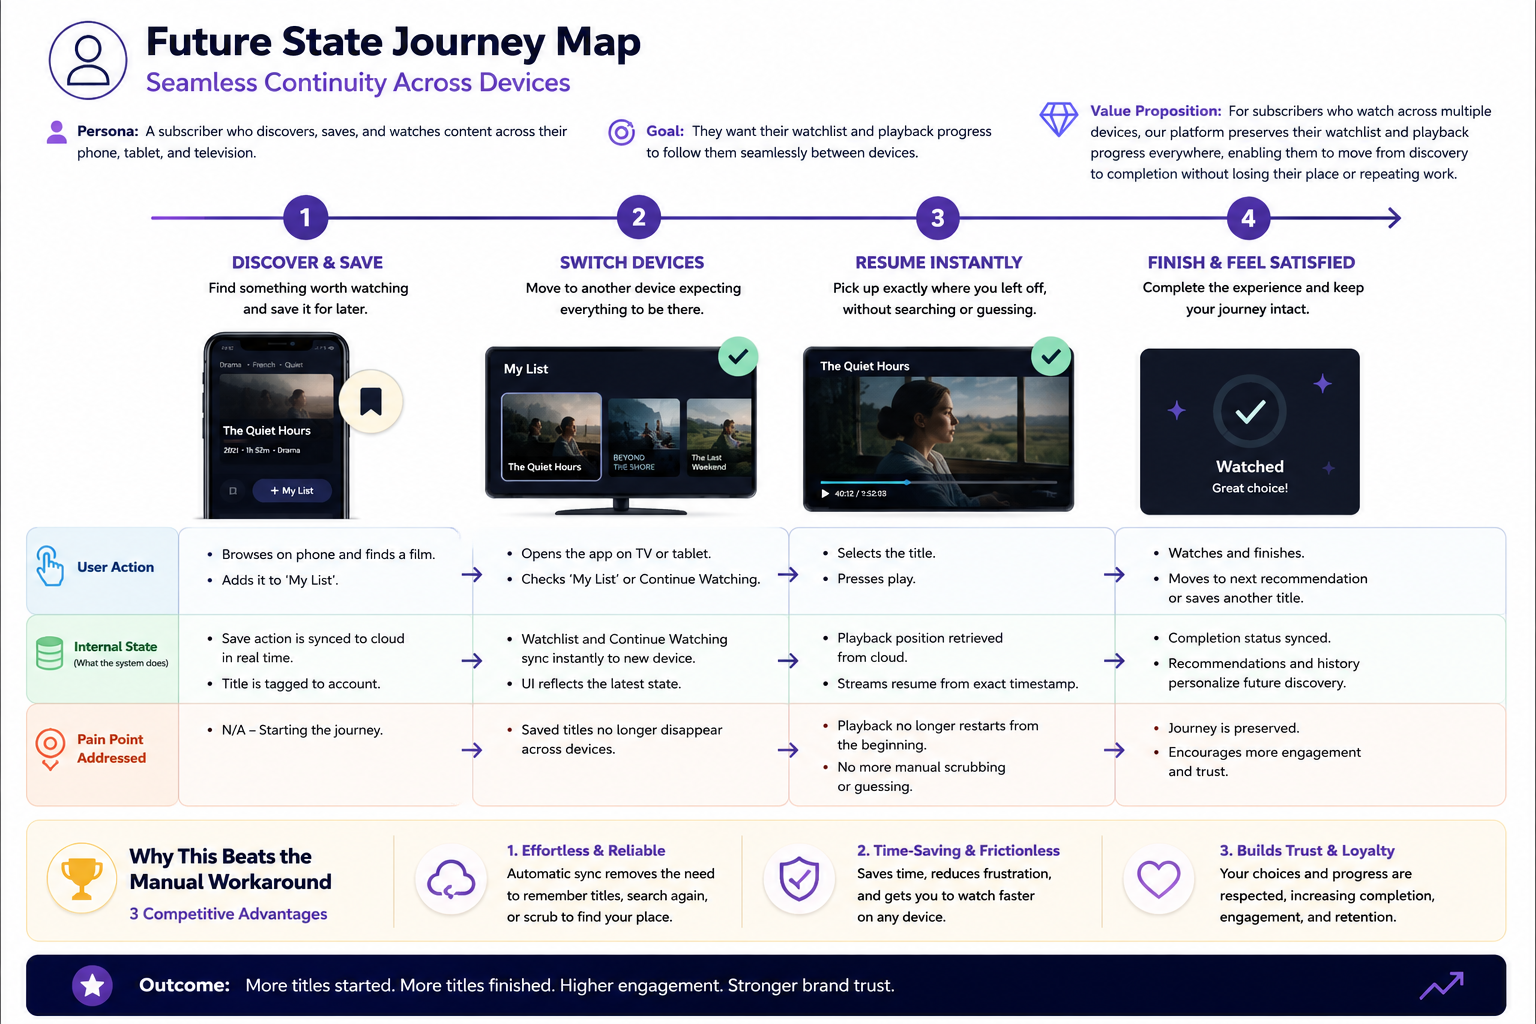
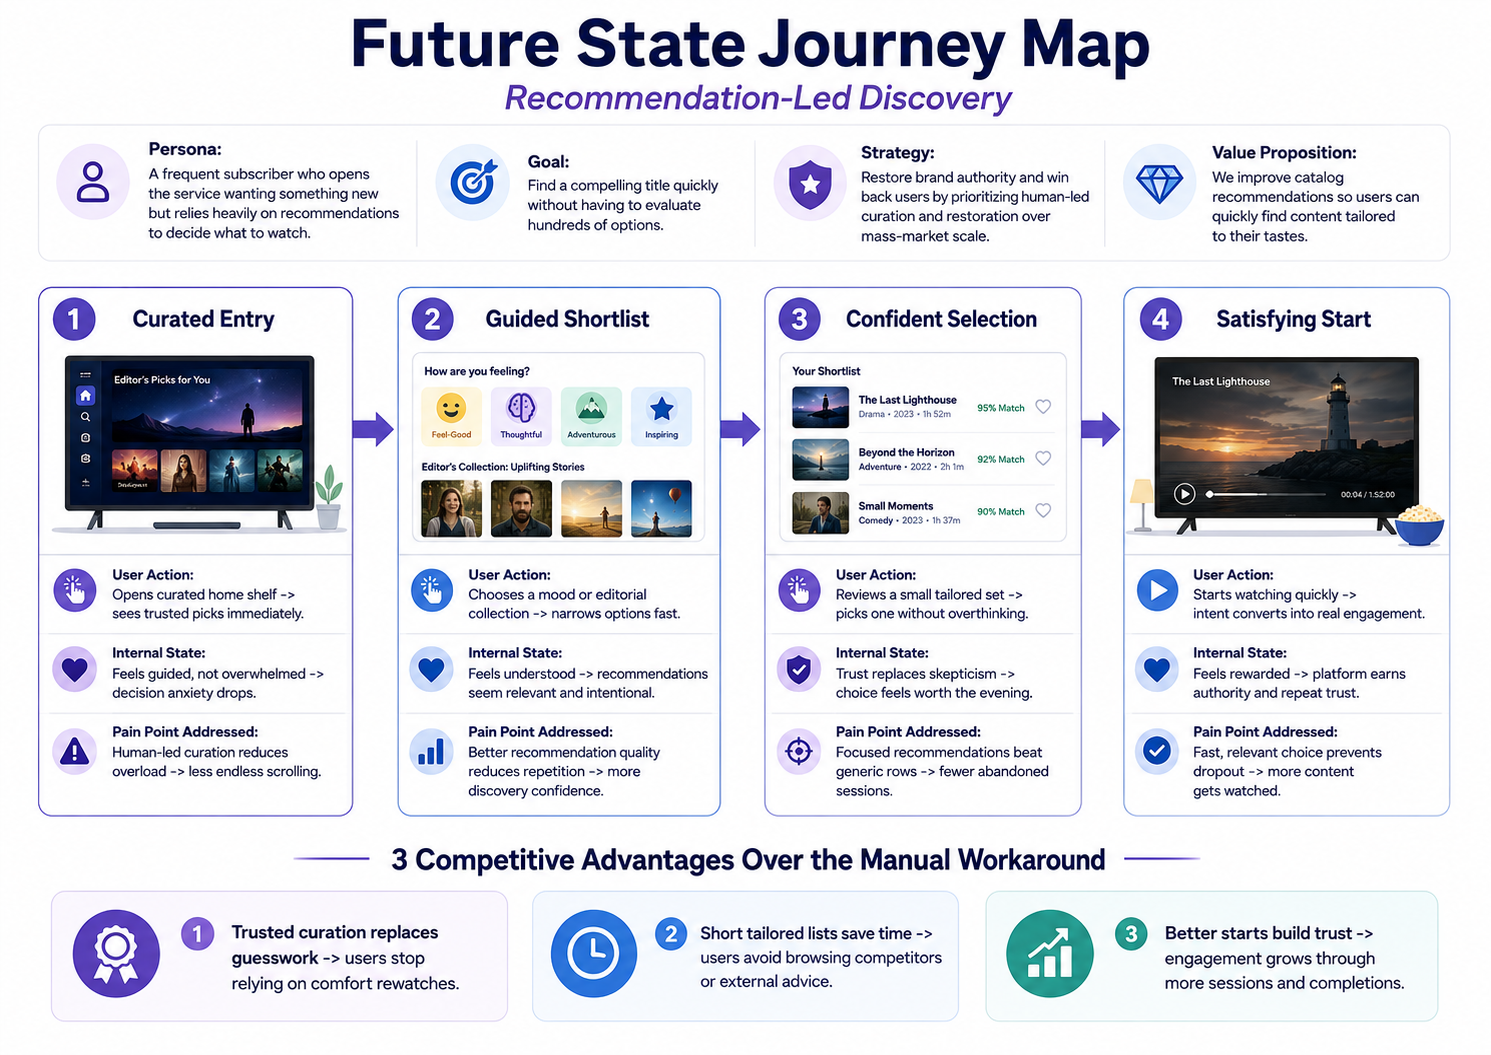
Add files via upload

diff --git a/02-discovery/future_state_journey_map.md b/02-discovery/future_state_journey_map.md
@@ -1,42 +1,43 @@
-# Future-State Journey Map: Seamless Curated Viewing
+# Future State Journey Map — Recommendation-Led Discovery
 
-**Persona:** A subscriber who discovers, saves, and watches across phone, tablet, and television.  
-**Strategy:** Restore brand authority through human-led curation and reliable cross-device continuity.  
-**Value Proposition:** Preserve watchlists and progress everywhere, moving users from discovery to completion effortlessly.
+**Persona:** A frequent subscriber who opens the service wanting something new but relies heavily on recommendations to decide what to watch.  
+**Goal:** Find a compelling title quickly without having to evaluate hundreds of options.  
+**Friction:** They scroll through recommendation rows for an extended period, find nothing relevant, and leave without watching anything.  
+**Strategy:** Restore brand authority and win back users by prioritizing human-led curation and restoration over mass-market scale.  
+**Value Proposition:** For users, we will improve recommendations because they cannot easily find content tailored to their tastes.
 
-## Visual Timeline
+## One-Page Visual Timeline
 
 ```text
-① Curated Discovery ──▶ ② Confident Save ──▶ ③ Seamless Handoff ──▶ ④ Exact Resume
-   Guided choice          Intent preserved       Devices aligned          Viewing completed
+1. Curated Entry → 2. Guided Shortlist → 3. Confident Selection → 4. Satisfying Start
+   trusted start         fewer choices             fast decision             playback begins
 ```
 
-## 1. Curated Discovery
+## 1. Curated Entry
+- **Stage Name:** Curated Entry
+- **User Action:** Opens curated home shelf -> sees trusted picks immediately.
+- **Internal State:** Feels guided, not overwhelmed -> decision anxiety drops.
+- **Pain Point Addressed:** Human-led curation reduces overload -> less endless scrolling.
 
-- **User Action:** Chooses an editor-selected title → avoids endless, repetitive browsing.
-- **Internal State:** Feels guided and understood → confidence replaces catalogue anxiety.
-- **Pain Point Addressed:** Human curation narrows choice → discovery becomes purposeful, not exhausting.
+## 2. Guided Shortlist
+- **Stage Name:** Guided Shortlist
+- **User Action:** Chooses a mood or editorial collection -> narrows options fast.
+- **Internal State:** Feels understood -> recommendations seem relevant and intentional.
+- **Pain Point Addressed:** Better recommendation quality reduces repetition -> more discovery confidence.
 
-## 2. Confident Save
+## 3. Confident Selection
+- **Stage Name:** Confident Selection
+- **User Action:** Reviews a small tailored set -> picks one without overthinking.
+- **Internal State:** Trust replaces skepticism -> choice feels worth the evening.
+- **Pain Point Addressed:** Focused recommendations beat generic rows -> fewer abandoned sessions.
 
-- **User Action:** Saves the title once → every device displays the same watchlist.
-- **Internal State:** Trusts the account memory → no need to remember titles manually.
-- **Pain Point Addressed:** Instant synchronization confirms intent → saved content never disappears between devices.
-
-## 3. Seamless Handoff
-
-- **User Action:** Opens the service elsewhere → saved choices appear immediately.
-- **Internal State:** Feels reassured during device changes → continuity replaces uncertainty.
-- **Pain Point Addressed:** Account-level syncing preserves choices → no repeated searching or external reminders.
-
-## 4. Exact Resume
-
-- **User Action:** Selects Resume → playback starts at the exact saved moment.
-- **Internal State:** Feels satisfied and in control → chosen content reaches completion.
-- **Pain Point Addressed:** Accurate progress restoration removes scrubbing → no restarting, guessing, or abandonment.
+## 4. Satisfying Start
+- **Stage Name:** Satisfying Start
+- **User Action:** Starts watching quickly -> intent converts into real engagement.
+- **Internal State:** Feels rewarded -> platform earns authority and repeat trust.
+- **Pain Point Addressed:** Fast, relevant choice prevents dropout -> more content gets watched.
 
 ## Competitive Advantages Over the Manual Workaround
-
-- Unifies curation and continuity → transforms discovery into completed viewing.
-- Preserves intent automatically → eliminates notes, memory, and repeated searches.
-- Restores trust across screens → strengthens loyalty beyond catalogue scale.
+- Trusted curation replaces guesswork -> users stop relying on comfort rewatches.
+- Short tailored lists save time -> users avoid browsing competitors or external advice.
+- Better starts build trust -> engagement grows through more sessions and completions.

diff --git a/02-discovery/competitive-and-journey.md b/02-discovery/competitive-and-journey.md
@@ -1,15 +1,15 @@
 # Competitive Analysis & Journey Map (Module 2)
 
 ## Responses
-- **Role, who are you solving for? (the specific user segment or profile):** A subscriber who discovers, saves, and watches content across their phone, tablet, and television.
-- **Goal, what is this user ultimately trying to achieve?:** They want their watchlist and playback progress to follow them seamlessly between devices.
-- **Friction, the main barrier (moment of misery) stopping them from succeeding:** Their “Moment of Misery” occurs when a saved title disappears or a partially watched programme restarts from the beginning on another device, causing them to abandon content they had already chosen.
-- **External tools, the outside platforms or tools the user is forced to use:** Completely manual process, having access to the device where they have the saved title and/or watching progress, or changing platforms.
-- **The process, the 3 to 5 manual steps the user takes to get the job done:** 1. Remember the missing title and search for it again.
-2. Browse the catalogue to reconstruct where they originally found it.
-3. Estimate their previous playback position from memory.
-4. Scrub through the video until they recognize the last scene watched.
-- **Core frustration, the exact moment the process feels most “broken”:** A title saved on mobile is absent when the user opens the television app.
-A title paused partway through on a tablet restarts from the beginning on the television.
-- **The evidence, a specific quote or behavior from the research that proves this:** “I added a film to My List on my phone on the train. Got home, opened the TV app, gone. Not there. So I never found it again.” - Ken, UXR-06
+- **Role, who are you solving for? (the specific user segment or profile):** A frequent subscriber who opens the service wanting something new but relies heavily on recommendations to decide what to watch.
+- **Goal, what is this user ultimately trying to achieve?:** Find a compelling title quickly without having to evaluate hundreds of options.
+- **Friction, the main barrier (moment of misery) stopping them from succeeding:** They scroll through recommendation rows for an extended period, find nothing that feels relevant, and leave without watching anything.
+- **External tools, the outside platforms or tools the user is forced to use:** Physical media / DVD or competing streaming or entertainment services
+- **The process, the 3 to 5 manual steps the user takes to get the job done:** 1. Enter the app intending to watch something.
+2. Browse recommendations for an extended period.
+3. Become frustrated by the lack of compelling choices.
+4. End the session without starting anything.
+5. Switch to an alternative source of entertainment.
+- **Core frustration, the exact moment the process feels most “broken”:** The user may already be paying for the service and have access to thousands of titles, but still has to use another source because the platform cannot convert catalogue breadth into a confident viewing decision.
+- **The evidence, a specific quote or behavior from the research that proves this:** UXR-01 · Priya, 34, heavy viewer (14 yrs) "I open the app, scroll for like twenty minutes, and close it without watching anything. There's 15,000 titles but nothing I actually want. I ended up going back to a DVD."
 - **📎 Your journey map, a shareable link, or the map file you committed (e.g. journey-map.html):** future_state_journey_map.md and future-state-journey-map.png
